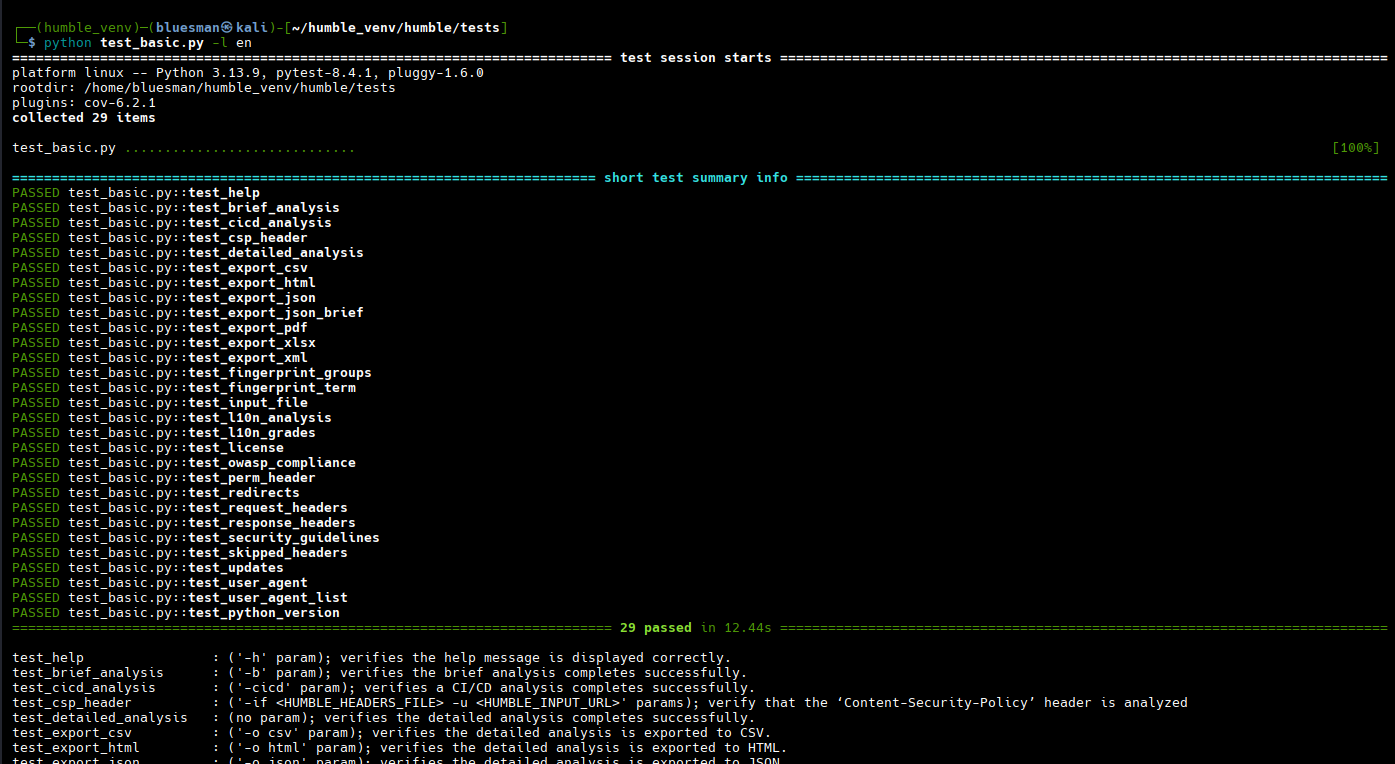
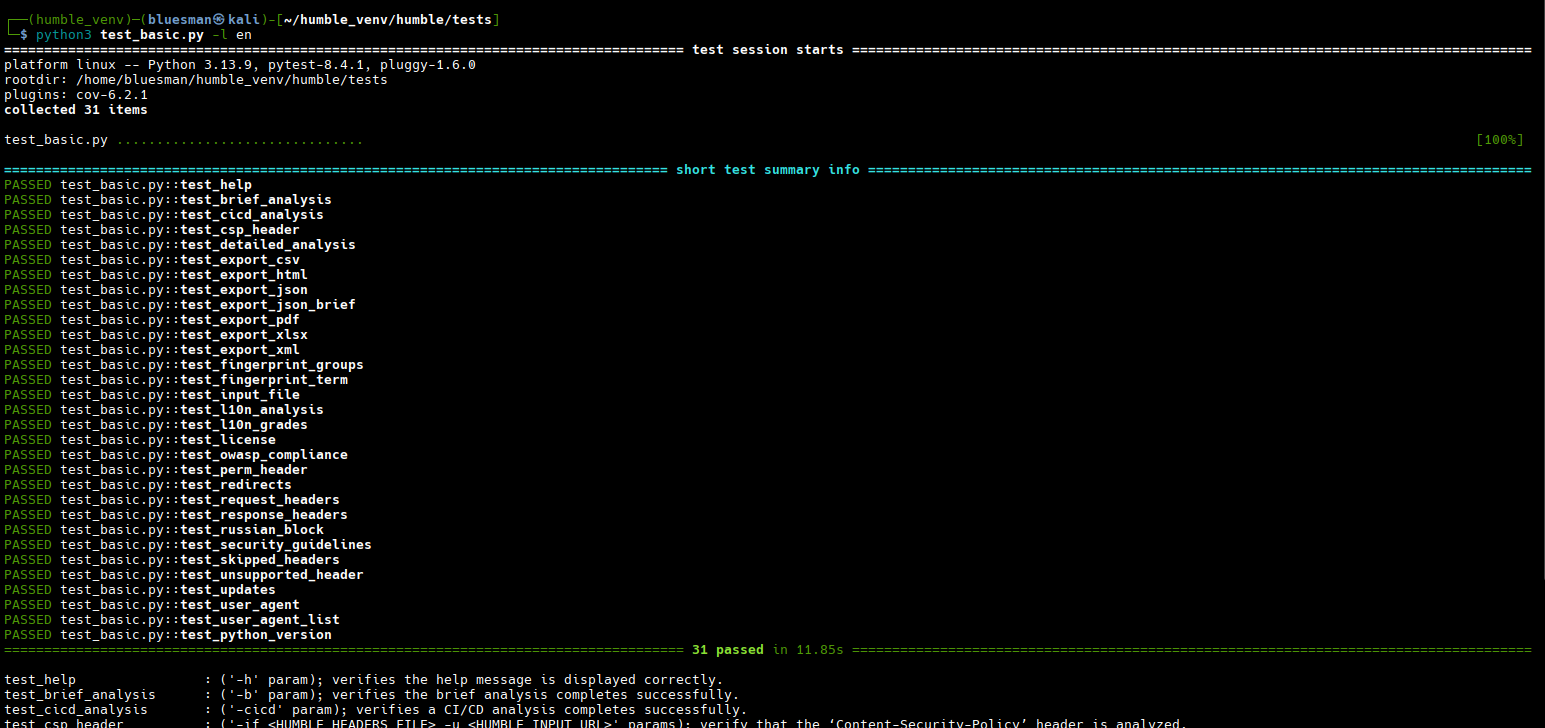
Feature: 2 new unit tests

Changed region(s): [[0.0, 0.0, 1.0, 1.0]]

diff --git a/tests/test_basic.py b/tests/test_basic.py
@@ -30,6 +30,7 @@ HUMBLE_L10N_FILE = ('details.txt', 'details_es.txt')
 HUMBLE_MAIN_FILE = path.abspath(path.join(HUMBLE_TESTS_DIR, '..', 'humble.py'))
 INPUT_FILE_URL = "https://github.com"
 REQUIRED_PYTHON = (3, 11)
+TEST_RUSSIAN_URL = 'https://tass.ru/'
 TEST_URL = 'https://google.com'
 TEST_CFGS = {
     'test_help': (['-h'], 'want to contribute?'),
@@ -65,9 +66,12 @@ TEST_CFGS = {
         'Analysis Grade:'
     ),
     'test_response_headers': (['-u', TEST_URL, '-r'], 'HTTP Response Headers'),
+    'test_russian_block': (['-u', TEST_RUSSIAN_URL, ], 'withdraws'),
     'test_security_guidelines': (['-g'], 'headers-in-wordpress'),
     'test_skipped_headers': (['-u', TEST_URL, '-s', 'ETAG', 'NEL'],
                              'expressly excluded'),
+    'test_unsupported_header': (['-u', TEST_URL, '-s', 'testhumbleheader'],
+                                'testhumbleheader'),
     'test_updates': (['-v'], 'Keeping your security tools'),
     'test_user_agent': (['-u', TEST_URL, '-ua', '4'],
                         'Selected the User-Agent'),
@@ -83,9 +87,11 @@ TEST_SUMMS = ('[test_help]', '[test_brief_analysis]', '[test_cicd_analysis]',
               '[test_l10n_grades]', '[test_license]',
               '[test_owasp_compliance]', '[test_perm_header]',
               '[test_redirects]', '[test_requests_headers]',
-              '[test_response_headers]', '[test_security_guidelines]',
-              '[test_skipped_headers]', '[test_updates]', '[test_user_agent]',
-              '[test_user_agent_list]', '[test_python_version]')
+              '[test_response_headers]', '[test_russian_block]',
+              '[test_security_guidelines]', '[test_skipped_headers]',
+              '[test_unsupported_header]', '[test_updates]',
+              '[test_user_agent]', '[test_user_agent_list]',
+              '[test_python_version]')
 
 
 class _Args:
@@ -162,7 +168,7 @@ def run_test(args, expected_text, timeout=5):
             encoding="utf-8",
             errors="replace"
         )
-        output = result.stdout if result.returncode == 0 else ""
+        output = result.stdout + result.stderr
     except subprocess.TimeoutExpired:
         pytest.fail(get_detail('[test_timeout]', replace=True))
     if expected_text not in output:
